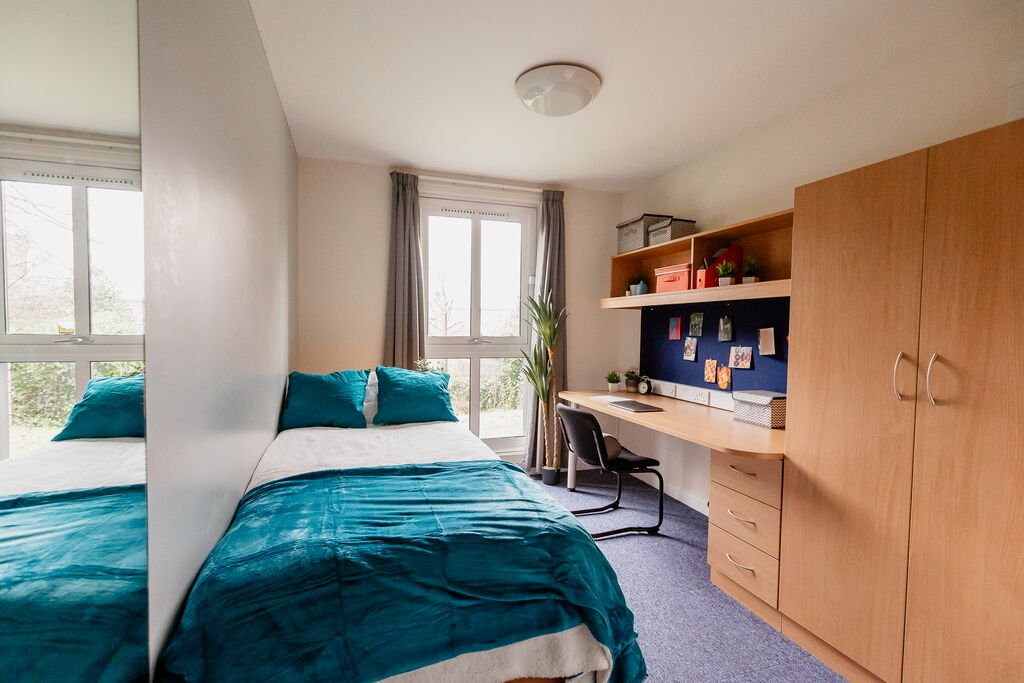
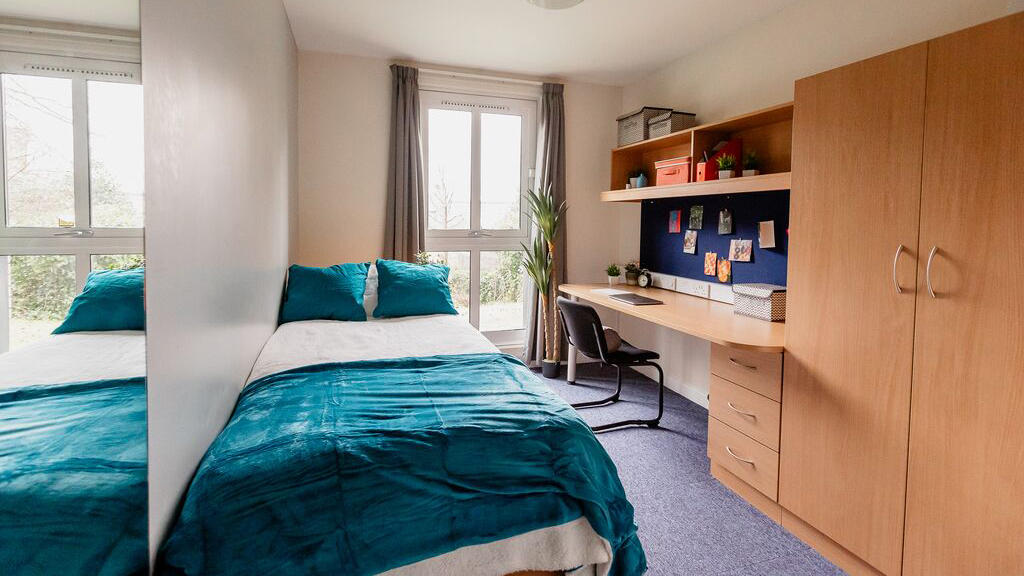
gallery

diff --git a/uos/pg-accommodation.html b/uos/pg-accommodation.html
@@ -217,8 +217,49 @@
       Where you live can shape your whole postgraduate experience. We’re here to help you find somewhere safe, supported and suited to your life and study goals.
      </p>
      </div>
-        <div class="image-container">
-     <img data-aos="fade-zoom-in" src="accom21.png"/></div>
+     <div class="gallery-container">
+            <div class="main-image-container">
+                <img id="mainImage" src="accom21.png" class="main-image" alt="Main image" onclick="openModal(0)">
+                <!-- SVG Overlay Icon -->
+                <div class="icon-overlay">
+                    <svg xmlns="http://www.w3.org/2000/svg" viewBox="0 0 512 512">
+                        <path d="M344 0L488 0c13.3 0 24 10.7 24 24l0 144c0 9.7-5.8 18.5-14.8 22.2s-19.3 1.7-26.2-5.2l-39-39-87 87c-9.4 9.4-24.6 9.4-33.9 0l-32-32c-9.4-9.4-9.4-24.6 0-33.9l87-87L327 41c-6.9-6.9-8.9-17.2-5.2-26.2S334.3 0 344 0zM168 512L24 512c-13.3 0-24-10.7-24-24L0 344c0-9.7 5.8-18.5 14.8-22.2s19.3 1.7 26.2 5.2l39 39 87-87c9.4 9.4 24.6 9.4 33.9 0l32 32c9.4 9.4 9.4 24.6 0 33.9l-87 87 39 39c6.9 6.9 8.9 17.2 5.2 26.2s-12.5 14.8-22.2 14.8z"/>
+                    </svg>
+                </div>
+            </div>
+            <!-- Thumbnail Container -->
+            <div class="thumbnail-container">
+                <img src="accom21.png" class="thumbnail" alt="Thumbnail 1: The Wave" 
+                     tabindex="0" role="button" onclick="changeMainImage(0)"
+                     aria-label="Thumbnail 1" onkeydown="handleKeyChangeMainImage(event, 0)">
+                <img src="accom1.jpg" class="thumbnail" alt="Thumbnail 2: Teaching spaces" 
+                     tabindex="0" role="button" onclick="changeMainImage(1)"
+                     aria-label="Thumbnail 2" onkeydown="handleKeyChangeMainImage(event, 1)">
+                <img src="su3.jpg" class="thumbnail" alt="Thumbnail 3: Edit suites" 
+                     tabindex="0" role="button" onclick="changeMainImage(2)"
+                     aria-label="Thumbnail 3" onkeydown="handleKeyChangeMainImage(event, 2)">
+                <img src="accom4.jpg" class="thumbnail" alt="Thumbnail 4: Research" 
+                     tabindex="0" role="button" onclick="changeMainImage(3)"
+                     aria-label="Thumbnail 4" onkeydown="handleKeyChangeMainImage(event, 3)">
+            </div>
+        </div>    
+        <!-- Modal -->
+        <div id="imageModal" class="modal" tabindex="-1" role="dialog" aria-modal="true" 
+             aria-labelledby="imageTitle" aria-describedby="imageDescription" onclick="closeModal()">
+             <span class="close" onclick="closeModal()" tabindex="0" role="button" aria-label="Close modal">&times;</span>
+     <div class="modal-content-container">
+                <div class="image-counter" id="imageCounter"></div>
+                <span class="prev" onclick="changeImage(-1)" tabindex="0" role="button" aria-label="Previous image"
+                      onkeydown="handleKeyChangeImage(event, -1)">&#10094;</span>
+                <img id="modalImage" class="modal-content" alt="Modal Image">
+                <span class="next" onclick="changeImage(1)" tabindex="0" role="button" aria-label="Next image"
+                      onkeydown="handleKeyChangeImage(event, 1)">&#10095;</span>
+                <div class="description-panel">
+                    <h3 id="imageTitle">Image Title</h3>
+                    <p id="imageDescription">Image Description</p>
+                </div>
+            </div>
+        </div> 
      <div class="copy-container">
      <h3 class="rank">
       You are guaranteed a home
@@ -342,10 +383,10 @@ document.querySelector('.modal-content-container').addEventListener('touchstart'
 
  // Array of images for the gallery with titles and descriptions
 const images = [
-    {src: 'steph.jpg', title: 'Steph Massey', description: 'Steph Massey graduated with a degree in Business Management in 2022. She is now working on a HR graduate scheme at TikTok.'},
-    {src: 'aaron.jpeg.jpg', title: 'Aaron Probert', description: 'Since graduating in 2019, Aaron has been hard at work bringing together his social enterprise, Labre’s Hope. He has partnered with leading charitable organisations and won £500,000 of UK Government funding.'},
-    {src: 'helen.jpg', title: 'Helen Monks', description: 'School of English graduate Helen Monks is a writer and actor, known for her roles in Raised by Wolves and Upstart Crow.'},
-    {src: 'yash.jpg', title: 'Yash Bordia', description: 'Computer Science BSc graduate Yash Bordia works at PayPal within their UK Enterprise Integrations Team, assisting large enterprise merchants integrate PayPal solutions into their businesses.'},
+    {src: 'accom21.png', title: 'Steph Massey', description: 'Steph Massey graduated with a degree in Business Management in 2022. She is now working on a HR graduate scheme at TikTok.'},
+    {src: 'accom1.jpg', title: 'Aaron Probert', description: 'Since graduating in 2019, Aaron has been hard at work bringing together his social enterprise, Labre’s Hope. He has partnered with leading charitable organisations and won £500,000 of UK Government funding.'},
+    {src: 'su3.jpg', title: 'Helen Monks', description: 'School of English graduate Helen Monks is a writer and actor, known for her roles in Raised by Wolves and Upstart Crow.'},
+    {src: 'accom4.jpg', title: 'Yash Bordia', description: 'Computer Science BSc graduate Yash Bordia works at PayPal within their UK Enterprise Integrations Team, assisting large enterprise merchants integrate PayPal solutions into their businesses.'},
 ];
 let currentIndex = 0;
 
